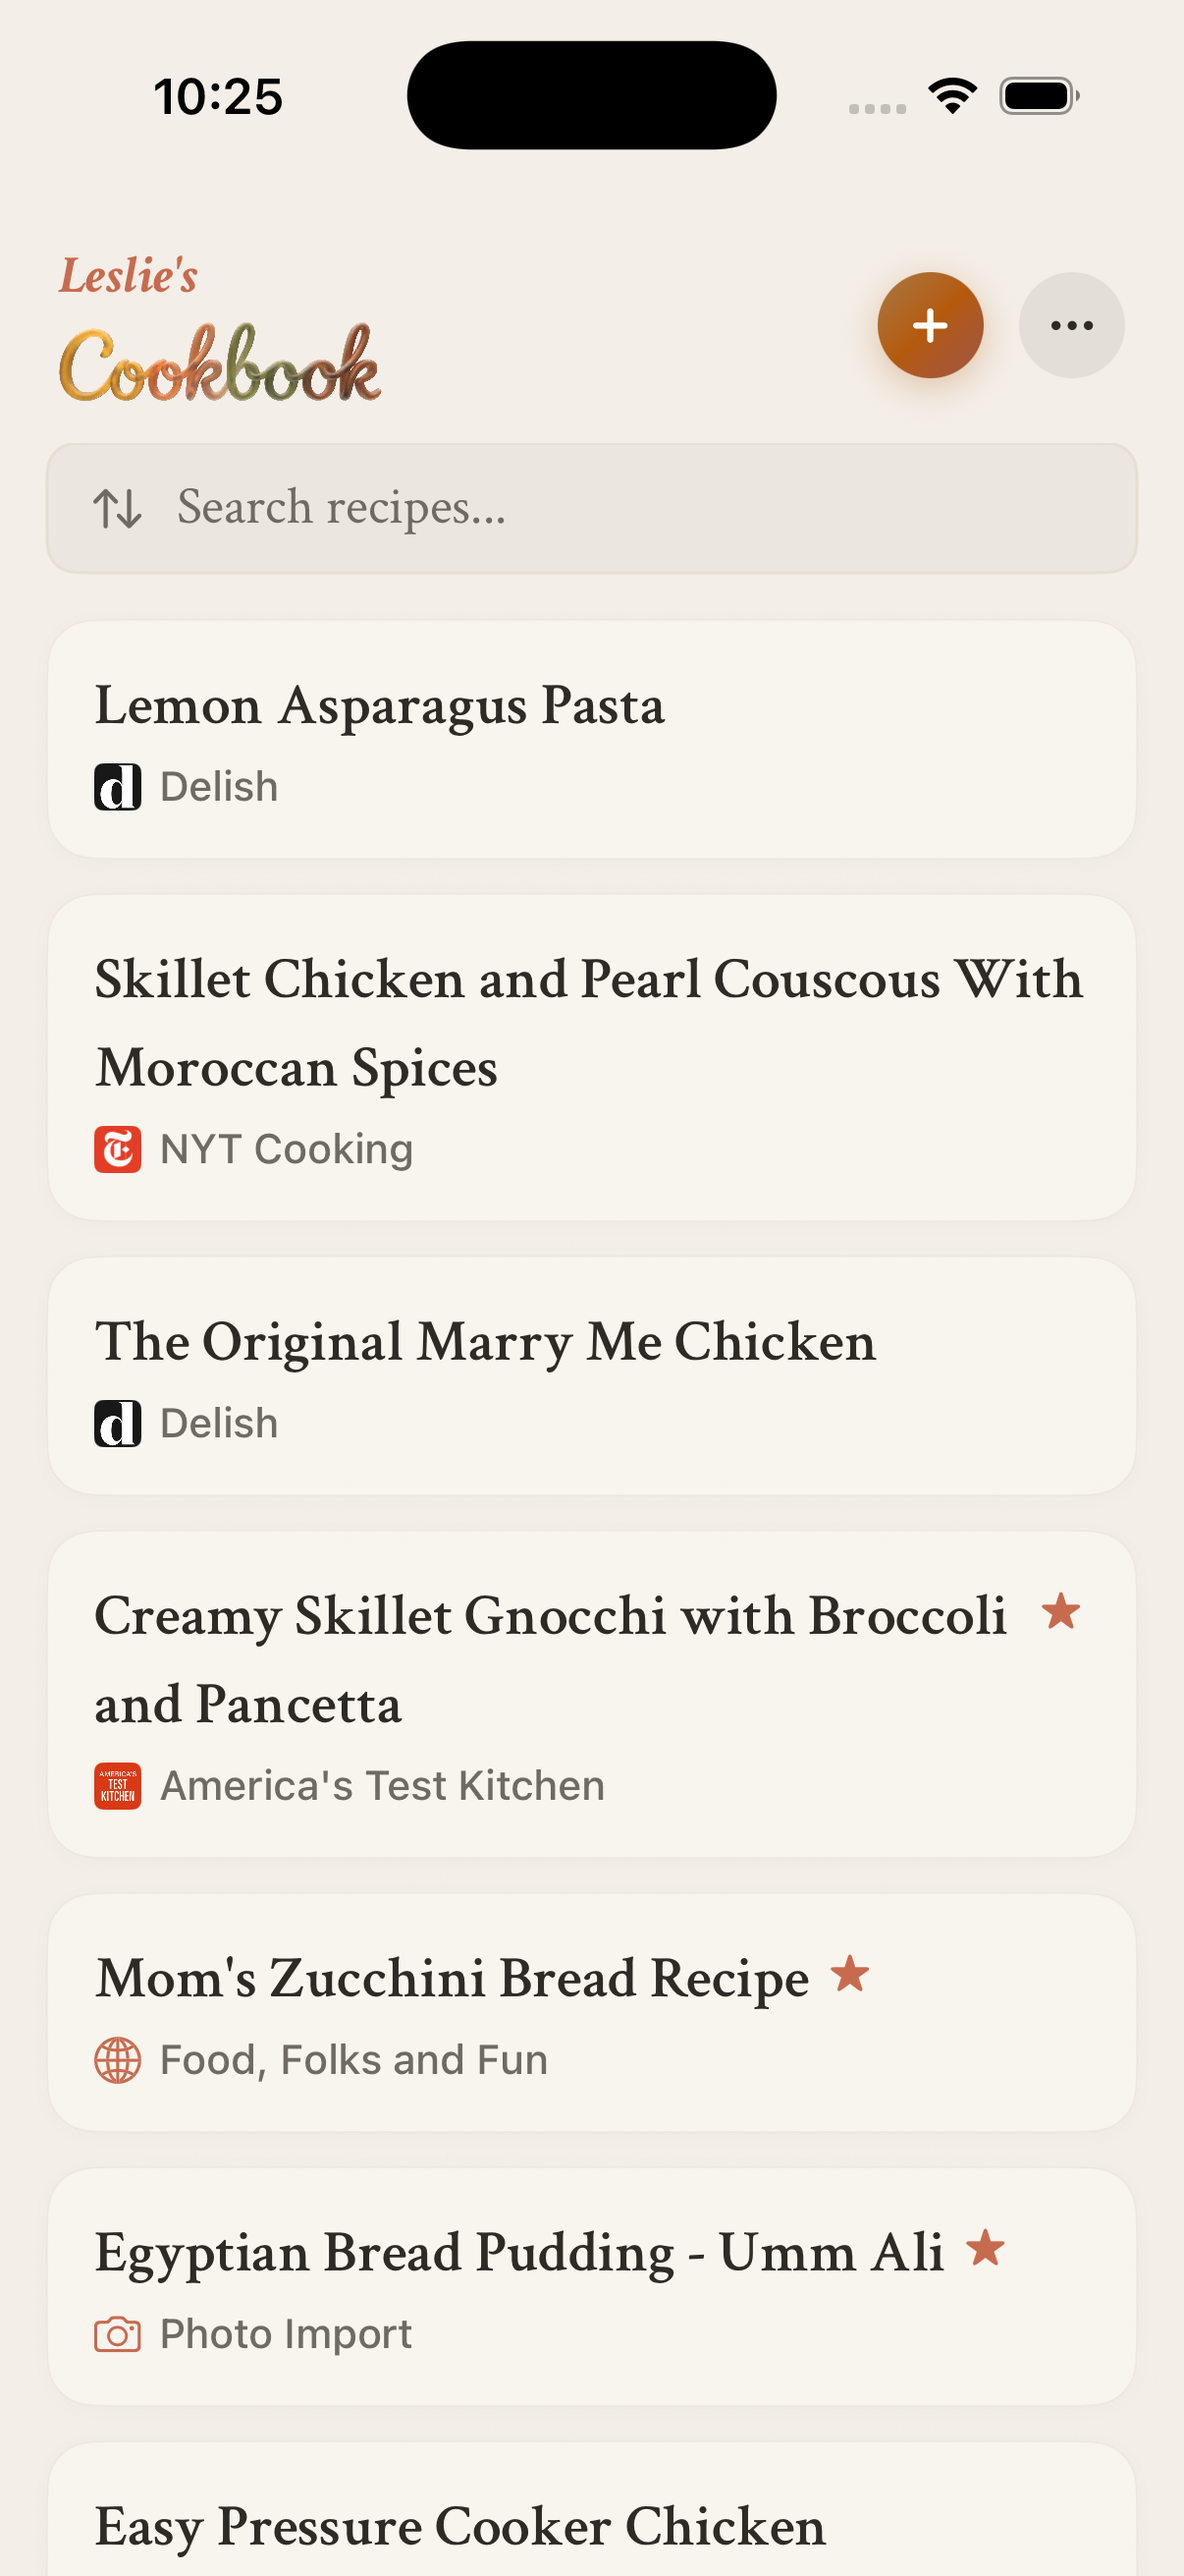
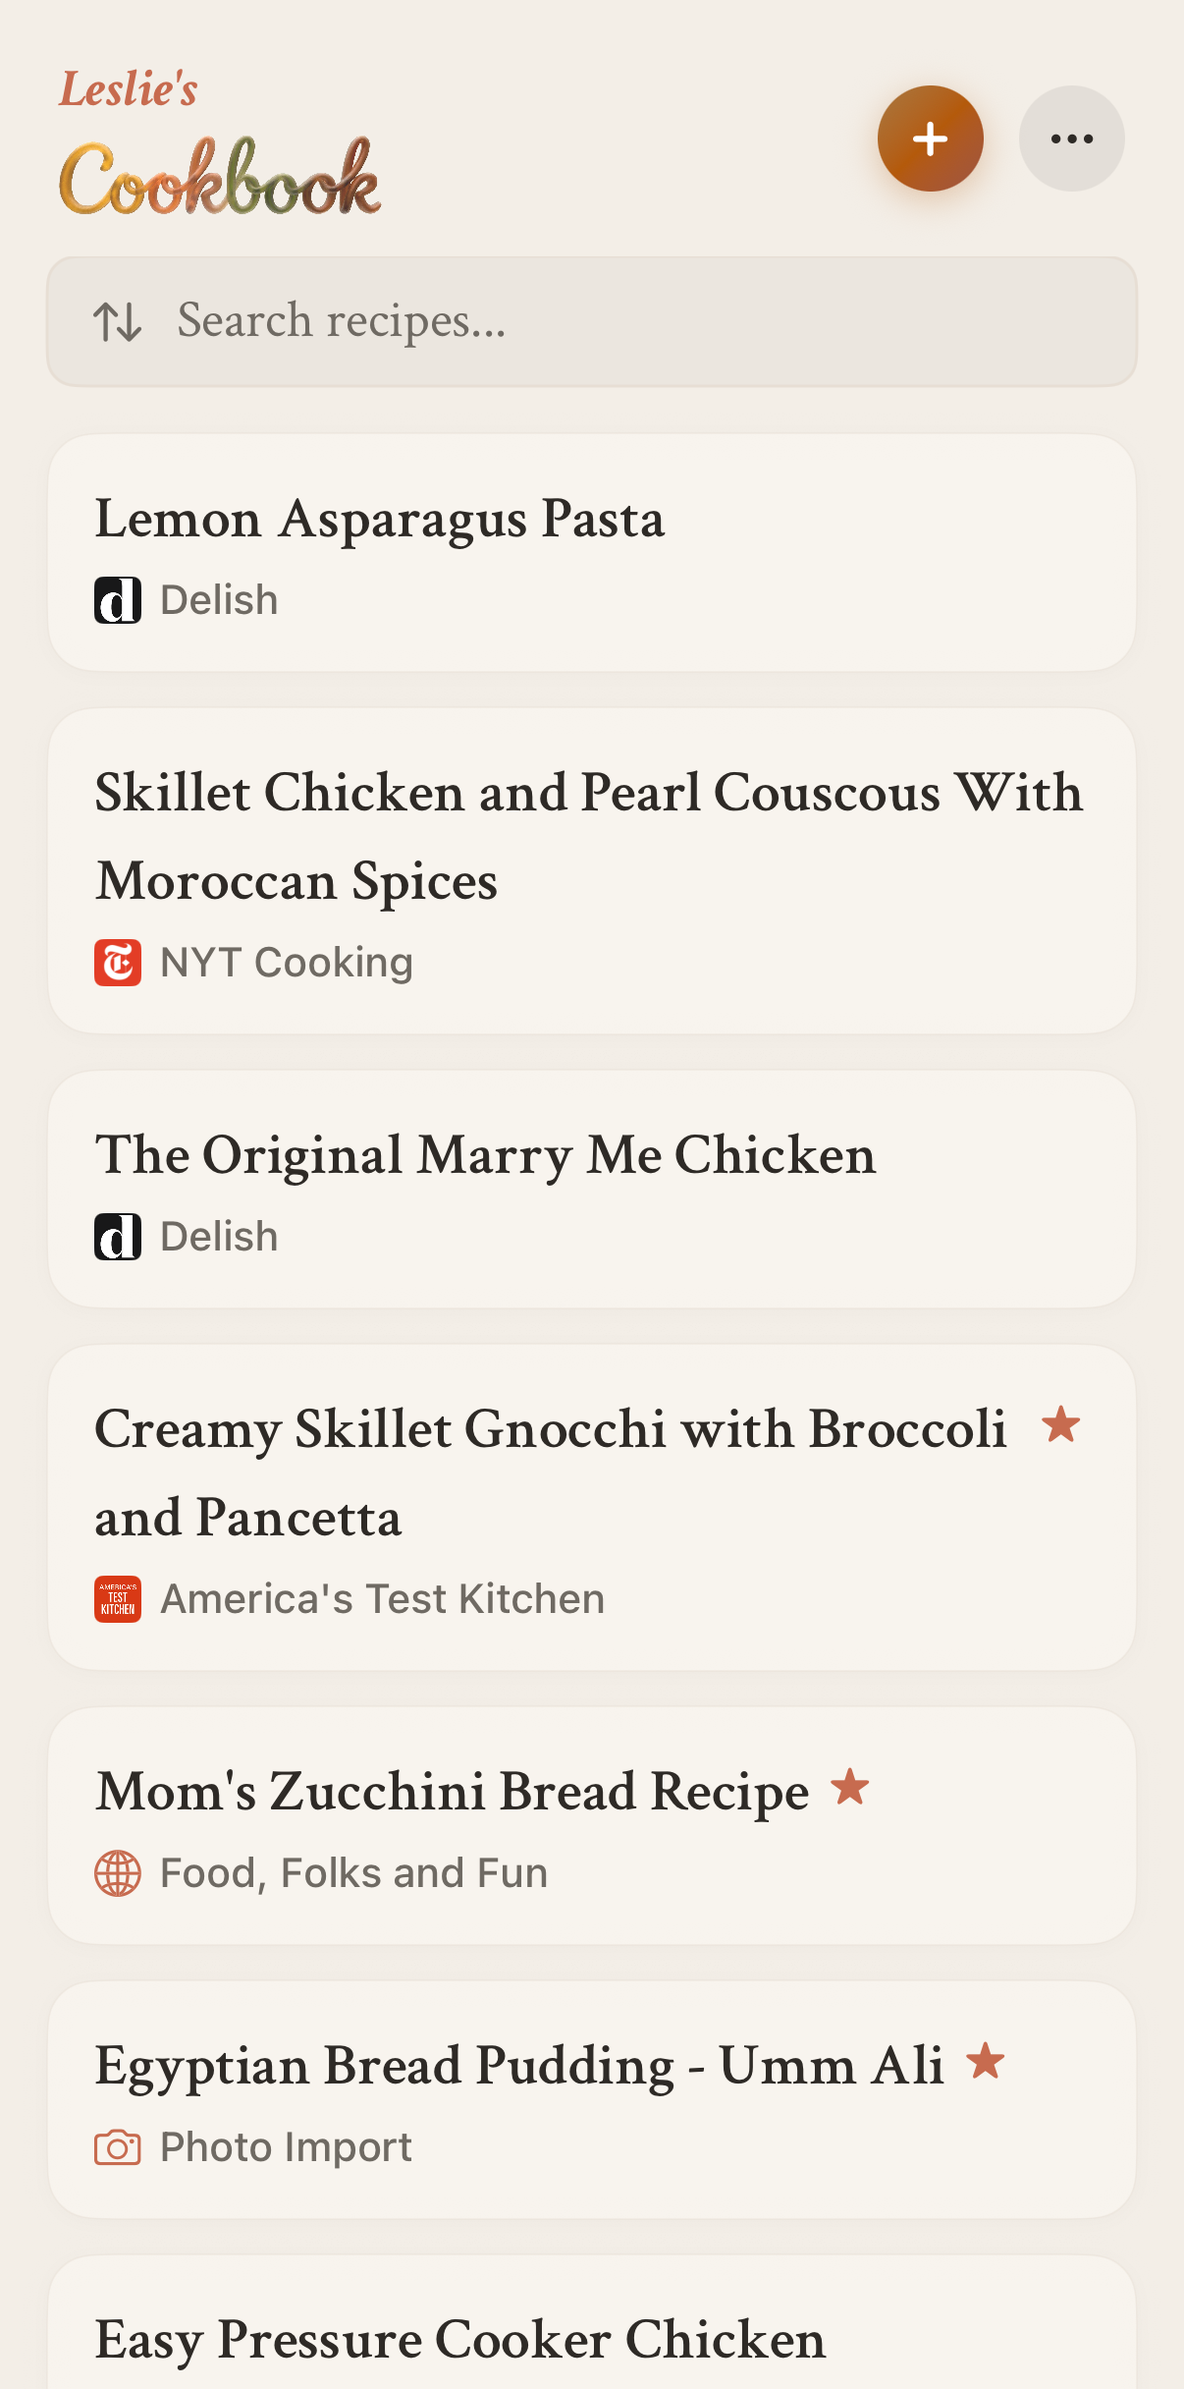
Crop status bar from screenshot, adjust frame padding
Remove Dynamic Island and status bar from screenshot so it does not
clash with the CSS device frame. Add bottom padding for home indicator.

diff --git a/css/styles.css b/css/styles.css
@@ -246,25 +246,20 @@ h1, h2, h3, h4 {
 /* --- iPhone Frame --- */
 .iphone-frame {
   width: 280px;
-  aspect-ratio: 886 / 1920;
   background: #1a1a1a;
-  border-radius: 44px;
-  padding: 8px;
+  border-radius: 36px;
+  padding: 10px 10px 28px;
   position: relative;
   box-shadow:
     0 24px 80px rgba(46, 42, 38, 0.18),
     0 8px 24px rgba(46, 42, 38, 0.1);
-  /* Subtle bezel highlight */
   border: 1px solid rgba(255,255,255,0.08);
 }
 
 .screen-img {
   width: 100%;
-  height: 100%;
-  object-fit: cover;
-  object-position: top;
-  border-radius: 36px;
   display: block;
+  border-radius: 26px;
 }
 
 
